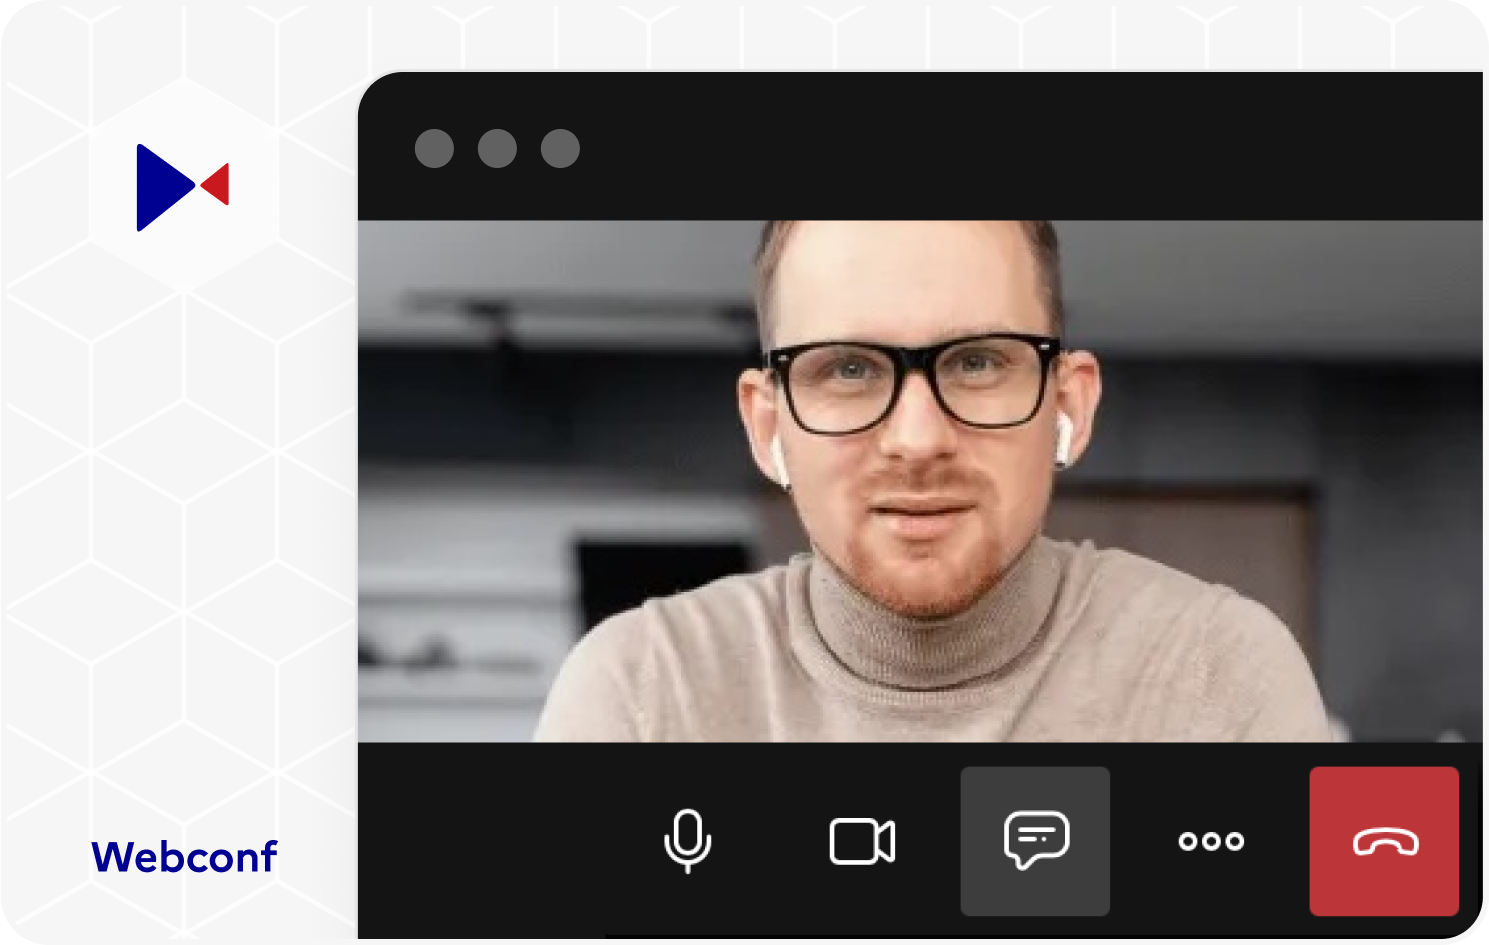
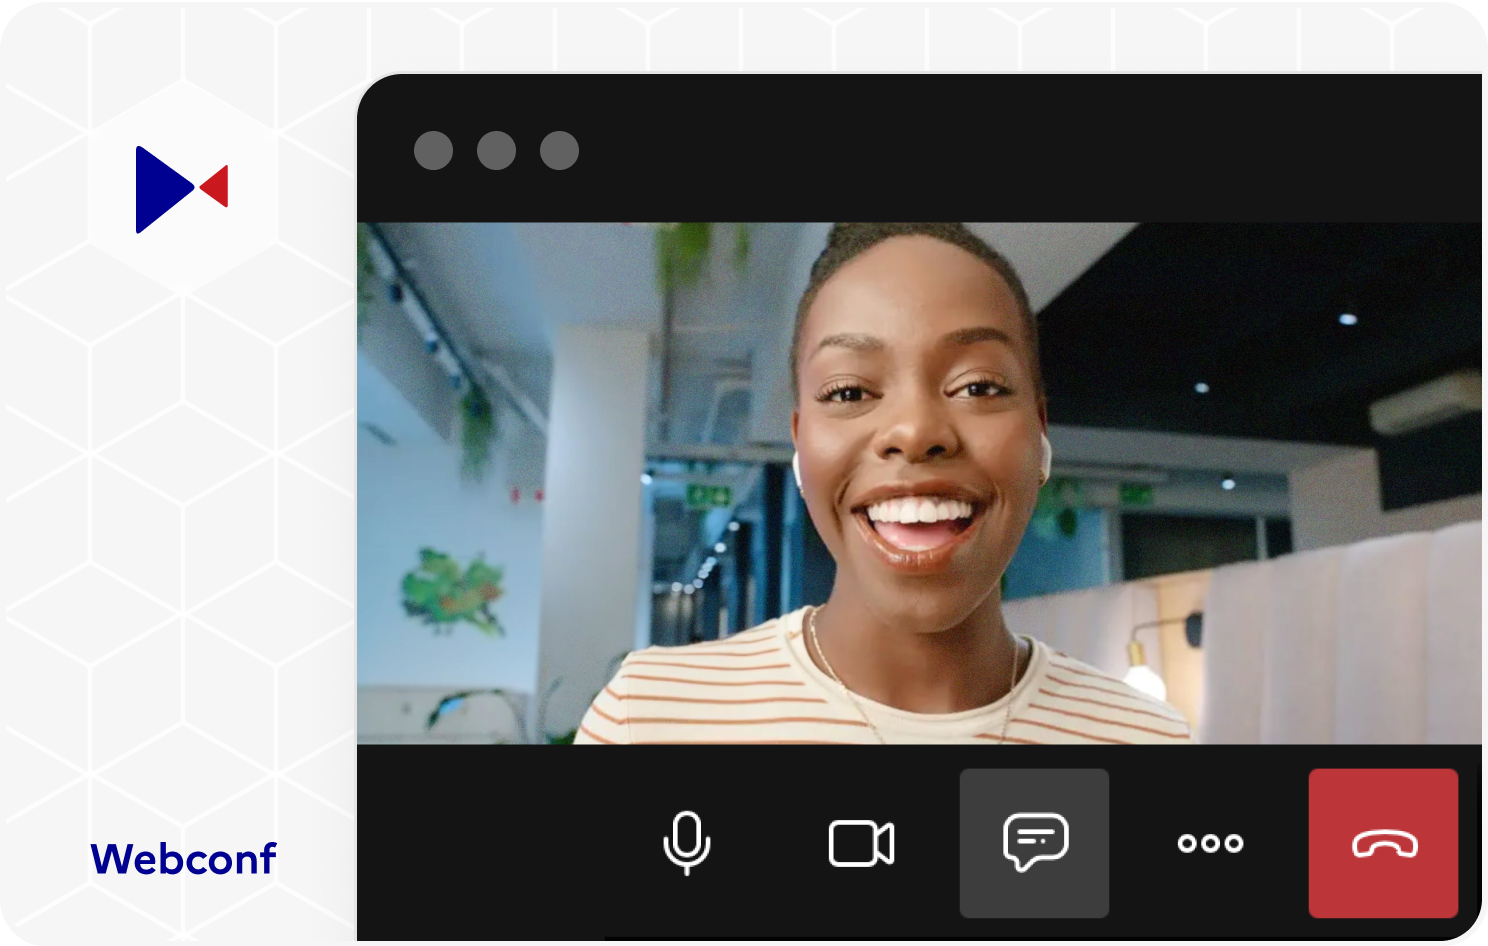
✨(front) update text
update block webinaire + update image

diff --git a/src/sections/Homepage/Migration.tsx b/src/sections/Homepage/Migration.tsx
@@ -3,7 +3,7 @@ import { Button } from '@/components/Button'
 import VisioIconWhite from '@/assets/products/visio-white.svg'
 import { ContentSection } from '@/components/ContentSection'
 import { Paragraph } from '@/components/Paragraph'
-import BentoLasuite from '@/assets/bento/suite-numerique.png'
+import BentoLasuite from '@/assets/bento/bento-webinaire-suite-numerique.png'
 import { useTranslations } from '@/locales/useTranslations'
 
 const VisioLogoIcon = () => {

diff --git a/src/components/LocaleSwitcher.tsx b/src/components/LocaleSwitcher.tsx
@@ -9,8 +9,8 @@ import CheckIcon from '@mui/icons-material/Check'
 const labels: Record<string, string> = {
   en: 'English',
   fr: 'Français',
-  de: 'Deutsch',
-  nl: 'Nederlands',
+//  de: 'Deutsch',
+//  nl: 'Nederlands',
 }
 
 export const LocaleSwitcher = () => {
